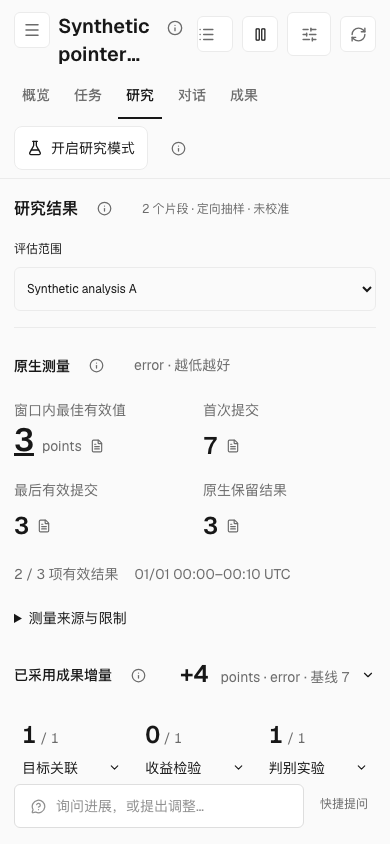
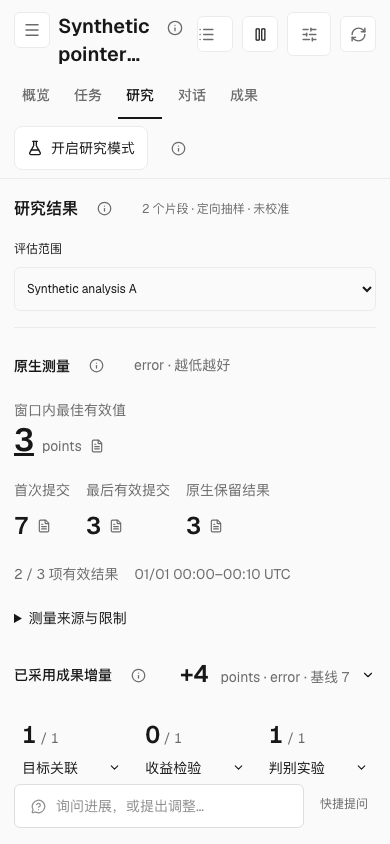
Keep native best primary and unknown retention compact

Changed region(s): [[0.4615, 0.4621, 0.7385, 0.6469], [0.0308, 0.5545, 0.4308, 0.6469]]

diff --git a/apps/presentation/dashboard/src/features/personal-workspace/goal-research-progress.css b/apps/presentation/dashboard/src/features/personal-workspace/goal-research-progress.css
@@ -69,8 +69,9 @@
 .research-native-results { border-block-start: 1px solid var(--pw-line); margin-block-start: 16px; padding-block-start: 16px; }
 .research-native-results h4 { margin: 0; font-size: var(--text-body); font-weight: 600; }
 .research-native-heading { display: flex; align-items: center; flex-wrap: wrap; gap: 4px 16px; }
-.research-native-reading { display: grid; grid-template-columns: repeat(4, minmax(0, 1fr)); gap: 12px 24px; margin-block: 12px 4px; }
-.research-native-reading > div { min-width: 0; }
+.research-native-reading { display: flex; align-items: baseline; flex-wrap: wrap; gap: 12px 32px; margin-block: 12px 4px; }
+.research-native-reading > div { min-width: 0; max-width: 100%; }
+.research-native-reading > .research-native-best { margin-inline-end: 24px; }
 .research-native-reading dt { font-size: var(--text-body); color: var(--pw-muted); }
 .research-native-reading dd { margin: 4px 0 0; }
 .research-native-reading dd button { display: inline-flex; align-items: center; flex-wrap: wrap; gap: 8px; max-width: 100%; min-height: 44px; padding: 0; font: inherit; background: none; border: 0; color: var(--pw-text); text-align: start; cursor: pointer; }
@@ -132,7 +133,8 @@
   .research-progress select { max-width: 100%; }
   .research-effect-metrics { gap: 8px; }
   .research-assessment > summary { gap: 8px; }
-  .research-native-reading { grid-template-columns: repeat(2, minmax(0, 1fr)); gap: 12px 16px; }
+  .research-native-reading { gap: 12px 16px; }
+  .research-native-reading > .research-native-best { flex-basis: 100%; margin-inline-end: 0; }
   .research-progress-values { grid-template-columns: 1fr; gap: 16px; }
   .research-request-values { grid-template-columns: 1fr; }
   .research-usage-basis { grid-template-columns: 1fr; gap: 4px; }
